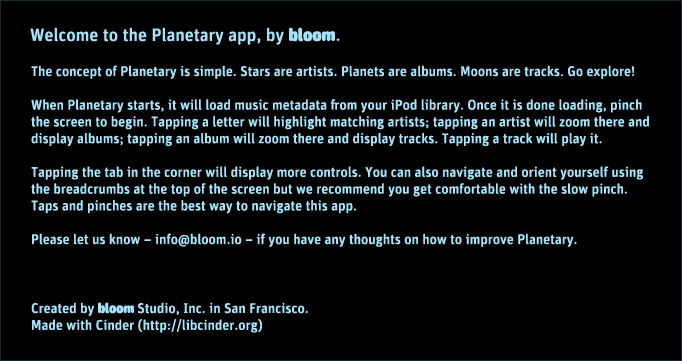
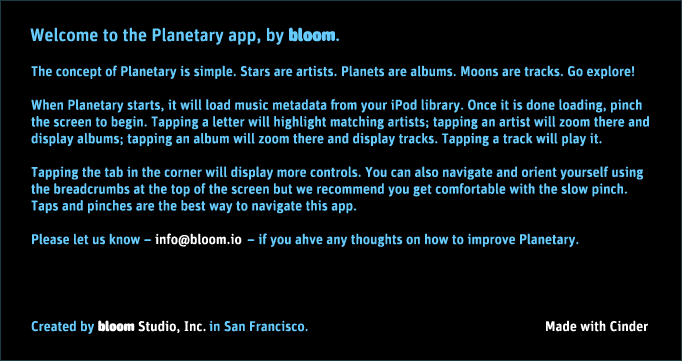
temp

diff --git a/src/HelpLayer.cpp b/src/HelpLayer.cpp
@@ -149,12 +149,18 @@ bool HelpLayer::touchesEnded( TouchEvent event )
 			mCallbacksHelpButtonPressed.call( this );
 			mIsCloseTouched = false;
 		} else {
-			Rectf mailButton( mPanelRect.x1 + 147.0f, mPanelRect.y1 + 226.0f, mPanelRect.x1 + 246.0f, mPanelRect.y1 + 253.0f );
-			Rectf cinderButton( mPanelRect.x1 + 133.0f, mPanelRect.y1 + 315.0f, mPanelRect.x1 + 265.0f, mPanelRect.y1 + 336.0f );
-			
+			Rectf mailButton( mPanelRect.x1 + 149.0f, mPanelRect.y1 + 226.0f, mPanelRect.x1 + 246.0f, mPanelRect.y1 + 253.0f );
+			Rectf bloomButton( mPanelRect.x1 + 90.0f, mPanelRect.y1 + 315.0f, mPanelRect.x1 + 208.0f, mPanelRect.y1 + 338.0f );
+			Rectf cinderButton( mPanelRect.x1 + 537.0f, mPanelRect.y1 + 315.0f, mPanelRect.x1 + 652.0f, mPanelRect.y1 + 338.0f );
+
 			if( mailButton.contains( pos ) ){
 				Url mailtoLink( "mailto:planetary@bloom.io?subject=Planetary feedback" );
 				launchWebBrowser( mailtoLink );
+				
+			} else if( bloomButton.contains( pos ) ){
+				Url cinderWebsite( "http://bloom.io" );
+				launchWebBrowser( cinderWebsite );
+				
 			} else if( cinderButton.contains( pos ) ){
 				Url cinderWebsite( "http://libcinder.org" );
 				launchWebBrowser( cinderWebsite );

diff --git a/src/ParticleController.cpp b/src/ParticleController.cpp
@@ -122,7 +122,7 @@ void ParticleController::buildDustVertexArray( Node *node, float pinchAlphaPer, 
 	int vIndex	= 0;
 	int cIndex	= 0;
 	float zoomPer = constrain( G_ZOOM - G_ARTIST_LEVEL, 0.0f, 1.0f );
-	float alpha	= ( zoomPer * dustAlpha ) * pinchAlphaPer;
+	float alpha	= ( zoomPer * dustAlpha ) * pinchAlphaPer * 0.5f;
 	Color col	= node->mGlowColor * 0.1f;
 	
 	for( list<Dust>::iterator it = mDusts.begin(); it != mDusts.end(); ++it ){

diff --git a/include/UiLayer.h b/include/UiLayer.h
@@ -39,7 +39,7 @@ class UiLayer {
 	float	getPanelYPos(){ return mPanelRect.y1; }	
     ci::Rectf getPanelTabRect() { return mPanelTabRect; }
 	bool	getIsPanelOpen() { return mIsPanelOpen; }
-	bool	setIsPanelOpen( bool b ){ mIsPanelOpen = b; mHasPanelBeenDragged = false; }
+	void	setIsPanelOpen( bool b ){ mIsPanelOpen = b; mHasPanelBeenDragged = false; }
 	
  private:
 
